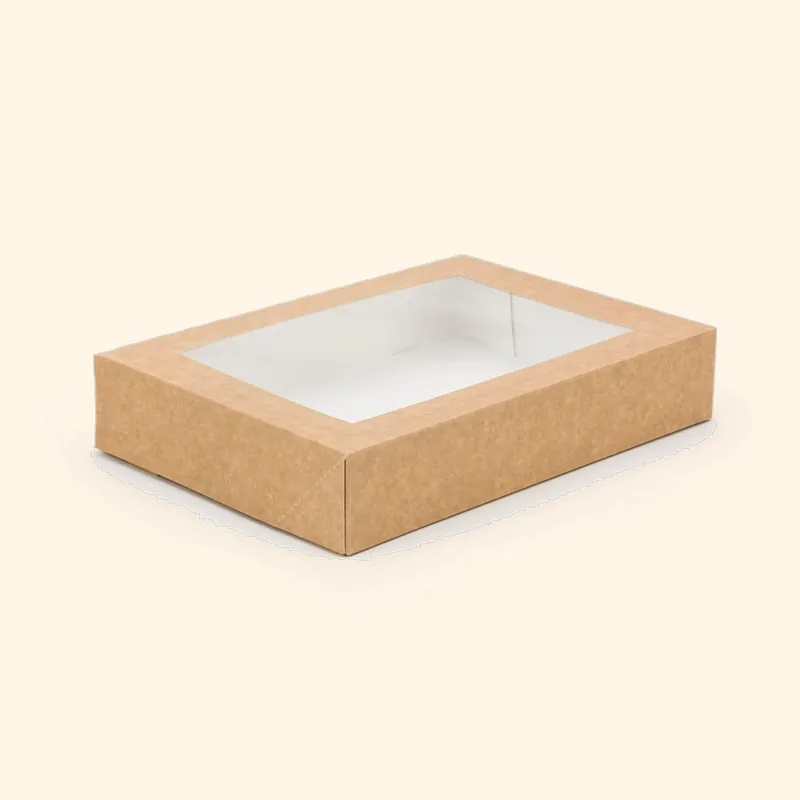
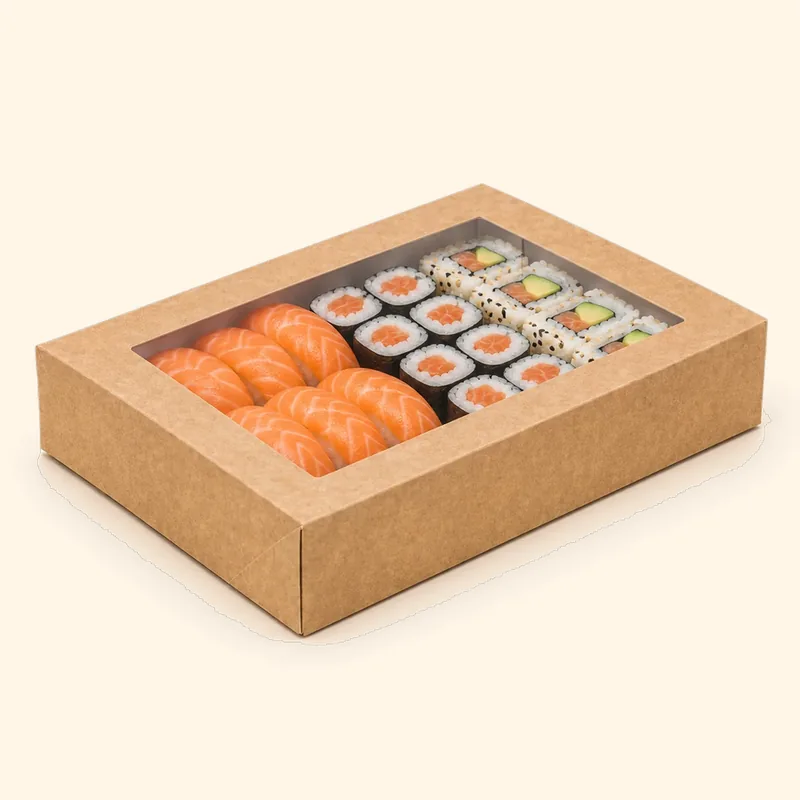
Osiem wizualizacji z 8.09 wpiętych w miejsca z listy braków
Materiał zamyka pięć z sześciu punktów listy: kraftowe pudełka i wkładka
mają teraz zawartość, doszła banderola na kraftowym pudełku, czarne
premium z zestawem oraz dwie sceny do karuzeli inspiracji.

Puste pudełka zostają wyłącznie w pasku kategorii nad katalogiem, gdzie
czytają się jako indeks kształtów. Wszędzie indziej wchodzą warianty
z jedzeniem.

Przy okazji dwie usterki galerii: strona banderol pokazywała to samo
zdjęcie dwa razy, a galeria premium miała wśród zdjęć banderolę, czyli
temat z innej kategorii.

UWAGA: to wizualizacje, nie zdjęcia produkcji. Banderola i czarne premium
są koncepcjami, wymagają porównania z faktycznym asortymentem przed
wdrożeniem. Źródła i zastrzeżenia w 00 - Assets/Packshoot/07 - Wizualizacje
2026-09/ZRODLO.md.

Changed region(s): [[0.0312, 0.2188, 0.9688, 0.8125]]

diff --git a/opakowania-premium.html b/opakowania-premium.html
@@ -77,7 +77,7 @@
           <div class="galeria__male">
             <button class="galeria__mini" type="button" aria-label="Pokaż w powiększeniu: Zamknięte czarne pudełko na zestaw sushi"><figure class="foto" data-obr="OBR-06"><img src="assets/img/packshot-czarne-z-wzorem-zamkniete.webp" srcset="assets/img/packshot-czarne-z-wzorem-zamkniete-800.webp 800w, assets/img/packshot-czarne-z-wzorem-zamkniete.webp 1448w" sizes="(min-width: 1000px) 33vw, 100vw" alt="Zamknięte czarne pudełko na zestaw sushi" loading="lazy" decoding="async"></figure></button>
             <button class="galeria__mini" type="button" aria-label="Pokaż w powiększeniu: Makro złocenia: złote linie na czarnym kartonie"><figure class="foto" data-obr="OBR-18"><img src="assets/img/hot-stamping-detail.webp" srcset="assets/img/hot-stamping-detail-800.webp 800w, assets/img/hot-stamping-detail.webp 1600w" sizes="(min-width: 1000px) 33vw, 100vw" alt="Makro złocenia: złote linie na czarnym kartonie" loading="lazy" decoding="async"></figure></button>
-            <button class="galeria__mini" type="button" aria-label="Pokaż w powiększeniu: Banderole brandingowe na pudełkach MOKU"><figure class="foto" data-obr="OBR-19"><img src="assets/img/banderole-brandingowe-moku.webp" srcset="assets/img/banderole-brandingowe-moku-800.webp 800w, assets/img/banderole-brandingowe-moku.webp 1600w" sizes="(min-width: 1000px) 33vw, 100vw" alt="Banderole brandingowe na pudełkach MOKU" loading="lazy" decoding="async"></figure></button>
+            <button class="galeria__mini" type="button" aria-label="Pokaż w powiększeniu: Banderole brandingowe na pudełkach MOKU"><figure class="foto" data-obr="OBR-19"><img src="assets/img/packshot-czarne-premium-zestaw.webp" srcset="assets/img/packshot-czarne-premium-zestaw-800.webp 800w, assets/img/packshot-czarne-premium-zestaw.webp 1254w" sizes="(min-width: 1000px) 33vw, 100vw" alt="Czarne pudełko premium z zestawem sushi" loading="lazy" decoding="async"></figure></button>
             <button class="galeria__mini" type="button" aria-label="Pokaż w powiększeniu: Detal otwartego pudełka na rolki, pałeczki wyjmują kawałek"><figure class="foto" data-obr="OBR-14"><img src="assets/img/czarne-wzor-chopsticks-closeup-action-4x5.webp" srcset="assets/img/czarne-wzor-chopsticks-closeup-action-4x5-800.webp 800w, assets/img/czarne-wzor-chopsticks-closeup-action-4x5.webp 1122w" sizes="(min-width: 1000px) 33vw, 100vw" alt="Detal otwartego pudełka na rolki, pałeczki wyjmują kawałek" loading="lazy" decoding="async"></figure></button>
           </div>
         </div>
@@ -211,7 +211,7 @@
           <p>Dla lokali, które dużą część sprzedaży realizują w&nbsp;dostawie lub odbiorze osobistym.</p>
         </a>
         <a class="karta" href="opakowania-catering.html">
-          <figure class="foto foto--kwadrat" data-obr="OBR-11"><img src="assets/img/packshot-kraft-czarna-wkladka.webp" srcset="assets/img/packshot-kraft-czarna-wkladka-800.webp 800w, assets/img/packshot-kraft-czarna-wkladka.webp 1448w" sizes="(min-width: 1000px) 33vw, 100vw" alt="Kraftowe pudełko z czarną wkładką, otwarte" loading="lazy" decoding="async"></figure>
+          <figure class="foto foto--kwadrat" data-obr="OBR-11"><img src="assets/img/packshot-kraft-czarna-wkladka-z-jedzeniem.webp" srcset="assets/img/packshot-kraft-czarna-wkladka-z-jedzeniem-800.webp 800w, assets/img/packshot-kraft-czarna-wkladka-z-jedzeniem.webp 1122w" sizes="(min-width: 1000px) 33vw, 100vw" alt="Kraftowe pudełko z czarną wkładką, otwarte" loading="lazy" decoding="async"></figure>
           <h3>Opakowania cateringowe i&nbsp;eventowe</h3>
           <p>Dla firm obsługujących eventy, konferencje, przyjęcia i&nbsp;większe zamówienia biznesowe.</p>
         </a>
@@ -221,7 +221,7 @@
           <p>Dla sprzedaży szybkiej, lodówek ekspozycyjnych, punktów food court i&nbsp;konceptów lunchowych.</p>
         </a>
         <a class="karta" href="opakowania-banderole.html">
-          <figure class="foto foto--kwadrat" data-obr="OBR-31"><img src="assets/img/banderole-brandingowe-moku.webp" srcset="assets/img/banderole-brandingowe-moku-800.webp 800w, assets/img/banderole-brandingowe-moku.webp 1600w" sizes="(min-width: 1000px) 33vw, 100vw" alt="Wizualizacja banderoli brandingowych" loading="lazy" decoding="async"></figure>
+          <figure class="foto foto--kwadrat" data-obr="OBR-31"><img src="assets/img/packshot-czarne-premium-zestaw.webp" srcset="assets/img/packshot-czarne-premium-zestaw-800.webp 800w, assets/img/packshot-czarne-premium-zestaw.webp 1254w" sizes="(min-width: 1000px) 33vw, 100vw" alt="Wizualizacja banderoli brandingowych" loading="lazy" decoding="async"></figure>
           <h3>Banderole brandingowe</h3>
           <p>Prosty i&nbsp;efektowny sposób na wyróżnienie opakowania bez zmiany całej konstrukcji pudełka.</p>
         </a>

diff --git a/opakowania-banderole.html b/opakowania-banderole.html
@@ -75,7 +75,7 @@
             <figure class="foto" data-obr="OBR-31"><img src="assets/img/banderole-brandingowe-moku.webp" srcset="assets/img/banderole-brandingowe-moku-800.webp 800w, assets/img/banderole-brandingowe-moku.webp 1600w" sizes="(min-width: 1000px) 33vw, 100vw" alt="Wizualizacja banderoli brandingowych" loading="lazy" decoding="async"></figure>
           </div>
           <div class="galeria__male">
-            <button class="galeria__mini" type="button" aria-label="Pokaż w powiększeniu: Banderole brandingowe na pudełkach MOKU"><figure class="foto" data-obr="OBR-19"><img src="assets/img/banderole-brandingowe-moku.webp" srcset="assets/img/banderole-brandingowe-moku-800.webp 800w, assets/img/banderole-brandingowe-moku.webp 1600w" sizes="(min-width: 1000px) 33vw, 100vw" alt="Banderole brandingowe na pudełkach MOKU" loading="lazy" decoding="async"></figure></button>
+            <button class="galeria__mini" type="button" aria-label="Pokaż w powiększeniu: Banderole brandingowe na pudełkach MOKU"><figure class="foto" data-obr="OBR-19"><img src="assets/img/packshot-banderola-kraft.webp" srcset="assets/img/packshot-banderola-kraft-800.webp 800w, assets/img/packshot-banderola-kraft.webp 1254w" sizes="(min-width: 1000px) 33vw, 100vw" alt="Banderola na kraftowym pudełku z okienkiem" loading="lazy" decoding="async"></figure></button>
             <button class="galeria__mini" type="button" aria-label="Pokaż w powiększeniu: Makro nadruku na czarnym kartonie, otwarte pudełko z zestawem"><figure class="foto" data-obr="OBR-17"><img src="assets/img/czarne-wzor-chopsticks-closeup-action-4x5.webp" srcset="assets/img/czarne-wzor-chopsticks-closeup-action-4x5-800.webp 800w, assets/img/czarne-wzor-chopsticks-closeup-action-4x5.webp 1600w" sizes="(min-width: 1000px) 33vw, 100vw" alt="Makro nadruku na czarnym kartonie, otwarte pudełko z zestawem" loading="lazy" decoding="async"></figure></button>
             <button class="galeria__mini" type="button" aria-label="Pokaż w powiększeniu: Makro złocenia: złote linie na czarnym kartonie"><figure class="foto" data-obr="OBR-18"><img src="assets/img/hot-stamping-detail.webp" srcset="assets/img/hot-stamping-detail-800.webp 800w, assets/img/hot-stamping-detail.webp 1600w" sizes="(min-width: 1000px) 33vw, 100vw" alt="Makro złocenia: złote linie na czarnym kartonie" loading="lazy" decoding="async"></figure></button>
             <button class="galeria__mini" type="button" aria-label="Pokaż w powiększeniu: Jedno pudełko w kilku wariantach brandingowych"><figure class="foto" data-obr="OBR-16"><img src="assets/img/mozliwosci-personalizacji-moku.webp" srcset="assets/img/mozliwosci-personalizacji-moku-800.webp 800w, assets/img/mozliwosci-personalizacji-moku.webp 1600w" sizes="(min-width: 1000px) 33vw, 100vw" alt="Jedno pudełko w kilku wariantach brandingowych" loading="lazy" decoding="async"></figure></button>
@@ -150,7 +150,7 @@
         <div class="zakladki__panel" id="panel-person" role="tabpanel" aria-labelledby="tab-person" tabindex="0" hidden>
           <p>Logo, grafika, komunikaty, oznaczenia zestawów.</p>
           <p>Druk offsetowy, farbami przeznaczonymi do opakowań do żywności.</p>
-          <figure class="foto foto--szeroki" data-obr="OBR-19"><img src="assets/img/banderole-brandingowe-moku.webp" srcset="assets/img/banderole-brandingowe-moku-800.webp 800w, assets/img/banderole-brandingowe-moku.webp 1600w" sizes="(min-width: 1000px) 33vw, 100vw" alt="Banderole brandingowe na pudełkach MOKU" loading="lazy" decoding="async"></figure>
+          <figure class="foto foto--szeroki" data-obr="OBR-19"><img src="assets/img/packshot-banderola-kraft.webp" srcset="assets/img/packshot-banderola-kraft-800.webp 800w, assets/img/packshot-banderola-kraft.webp 1254w" sizes="(min-width: 1000px) 33vw, 100vw" alt="Banderole brandingowe na pudełkach MOKU" loading="lazy" decoding="async"></figure>
         </div>
         <div class="zakladki__panel" id="panel-praca" role="tabpanel" aria-labelledby="tab-praca" tabindex="0" hidden>
           <ol class="spec" style="list-style:none;padding:0">

diff --git a/opakowania.html b/opakowania.html
@@ -130,12 +130,12 @@
               <p class="produkt__opis">Dla restauracji i&nbsp;marek, które chcą podkreślić wyższy standard produktu.</p>
             </a>
             <a class="produkt" id="delivery" href="opakowania-delivery.html">
-              <figure class="foto foto-para" data-obr="OBR-07" data-para="delivery"><img src="assets/img/packshot-kraft-okno-22x9x5.webp" srcset="assets/img/packshot-kraft-okno-22x9x5-800.webp 800w, assets/img/packshot-kraft-okno-22x9x5.webp 1600w" sizes="(min-width: 1000px) 33vw, 100vw" alt="Kraftowe pudełko z okienkiem, format 22×9×5 cm" loading="lazy" decoding="async"><img src="assets/img/packshot-kraft-z-okienkiem-z-jedzeniem.webp" srcset="assets/img/packshot-kraft-z-okienkiem-z-jedzeniem-800.webp 800w, assets/img/packshot-kraft-z-okienkiem-z-jedzeniem.webp 1000w" sizes="(min-width: 1000px) 33vw, 100vw" alt="Otwarte kraftowe pudełko z zestawem na wynos" loading="lazy" decoding="async"></figure>
+              <figure class="foto foto-para" data-obr="OBR-07" data-para="delivery"><img src="assets/img/packshot-kraft-okno-22x9x5-z-jedzeniem.webp" srcset="assets/img/packshot-kraft-okno-22x9x5-z-jedzeniem-800.webp 800w, assets/img/packshot-kraft-okno-22x9x5-z-jedzeniem.webp 1254w" sizes="(min-width: 1000px) 33vw, 100vw" alt="Kraftowe pudełko z okienkiem, format 22×9×5 cm" loading="lazy" decoding="async"><img src="assets/img/packshot-kraft-z-okienkiem-z-jedzeniem.webp" srcset="assets/img/packshot-kraft-z-okienkiem-z-jedzeniem-800.webp 800w, assets/img/packshot-kraft-z-okienkiem-z-jedzeniem.webp 1000w" sizes="(min-width: 1000px) 33vw, 100vw" alt="Otwarte kraftowe pudełko z zestawem na wynos" loading="lazy" decoding="async"></figure>
               <h2>Opakowania delivery i&nbsp;take away</h2>
               <p class="produkt__opis">Dla lokali, które dużą część sprzedaży realizują w&nbsp;dostawie lub odbiorze osobistym.</p>
             </a>
             <a class="produkt" id="catering" href="opakowania-catering.html">
-              <figure class="foto foto-para" data-obr="OBR-09" data-para="catering"><img src="assets/img/packshot-kraft-okno-26x19x5.webp" srcset="assets/img/packshot-kraft-okno-26x19x5-800.webp 800w, assets/img/packshot-kraft-okno-26x19x5.webp 1600w" sizes="(min-width: 1000px) 33vw, 100vw" alt="Kraftowe pudełko z okienkiem, format 26×19×5 cm" loading="lazy" decoding="async"><img src="assets/img/packshot-kraft-z-okienkiem-z-jedzeniem.webp" srcset="assets/img/packshot-kraft-z-okienkiem-z-jedzeniem-800.webp 800w, assets/img/packshot-kraft-z-okienkiem-z-jedzeniem.webp 1000w" sizes="(min-width: 1000px) 33vw, 100vw" alt="Duże pudełko cateringowe z pełnym zestawem" loading="lazy" decoding="async"></figure>
+              <figure class="foto foto-para" data-obr="OBR-09" data-para="catering"><img src="assets/img/packshot-kraft-okno-26x19x5-z-jedzeniem.webp" srcset="assets/img/packshot-kraft-okno-26x19x5-z-jedzeniem-800.webp 800w, assets/img/packshot-kraft-okno-26x19x5-z-jedzeniem.webp 1254w" sizes="(min-width: 1000px) 33vw, 100vw" alt="Kraftowe pudełko z okienkiem, format 26×19×5 cm" loading="lazy" decoding="async"><img src="assets/img/packshot-kraft-z-okienkiem-z-jedzeniem.webp" srcset="assets/img/packshot-kraft-z-okienkiem-z-jedzeniem-800.webp 800w, assets/img/packshot-kraft-z-okienkiem-z-jedzeniem.webp 1000w" sizes="(min-width: 1000px) 33vw, 100vw" alt="Duże pudełko cateringowe z pełnym zestawem" loading="lazy" decoding="async"></figure>
               <h2>Opakowania cateringowe i&nbsp;eventowe</h2>
               <p class="produkt__opis">Dla firm obsługujących eventy, konferencje, przyjęcia i&nbsp;większe zamówienia biznesowe.</p>
             </a>

diff --git a/opakowania-catering.html b/opakowania-catering.html
@@ -72,10 +72,10 @@
 
         <div class="galeria">
           <div class="galeria__glowna">
-            <figure class="foto" data-obr="OBR-11"><img src="assets/img/packshot-kraft-czarna-wkladka.webp" srcset="assets/img/packshot-kraft-czarna-wkladka-800.webp 800w, assets/img/packshot-kraft-czarna-wkladka.webp 1448w" sizes="(min-width: 1000px) 33vw, 100vw" alt="Kraftowe pudełko z czarną wkładką, otwarte" loading="lazy" decoding="async"></figure>
+            <figure class="foto" data-obr="OBR-11"><img src="assets/img/packshot-kraft-czarna-wkladka-z-jedzeniem.webp" srcset="assets/img/packshot-kraft-czarna-wkladka-z-jedzeniem-800.webp 800w, assets/img/packshot-kraft-czarna-wkladka-z-jedzeniem.webp 1122w" sizes="(min-width: 1000px) 33vw, 100vw" alt="Kraftowe pudełko z czarną wkładką, otwarte" loading="lazy" decoding="async"></figure>
           </div>
           <div class="galeria__male">
-            <button class="galeria__mini" type="button" aria-label="Pokaż w powiększeniu: Kraftowe pudełko z okienkiem, format 19×13×5 cm"><figure class="foto" data-obr="OBR-10"><img src="assets/img/packshot-kraft-okno-19x13x5.webp" srcset="assets/img/packshot-kraft-okno-19x13x5-800.webp 800w, assets/img/packshot-kraft-okno-19x13x5.webp 1600w" sizes="(min-width: 1000px) 33vw, 100vw" alt="Kraftowe pudełko z okienkiem, format 19×13×5 cm" loading="lazy" decoding="async"></figure></button>
+            <button class="galeria__mini" type="button" aria-label="Pokaż w powiększeniu: Kraftowe pudełko z okienkiem, format 19×13×5 cm"><figure class="foto" data-obr="OBR-10"><img src="assets/img/packshot-kraft-okno-19x13x5-z-jedzeniem.webp" srcset="assets/img/packshot-kraft-okno-19x13x5-z-jedzeniem-800.webp 800w, assets/img/packshot-kraft-okno-19x13x5-z-jedzeniem.webp 1254w" sizes="(min-width: 1000px) 33vw, 100vw" alt="Kraftowe pudełko z okienkiem, format 19×13×5 cm" loading="lazy" decoding="async"></figure></button>
             <button class="galeria__mini" type="button" aria-label="Pokaż w powiększeniu: Trzy formaty opakowań obok siebie"><figure class="foto" data-obr="OBR-15"><img src="assets/img/packshot-kartony-plasko-flatlay-MOKU-x3.webp" srcset="assets/img/packshot-kartony-plasko-flatlay-MOKU-x3-800.webp 800w, assets/img/packshot-kartony-plasko-flatlay-MOKU-x3.webp 1254w" sizes="(min-width: 1000px) 33vw, 100vw" alt="Trzy formaty opakowań obok siebie" loading="lazy" decoding="async"></figure></button>
             <button class="galeria__mini" type="button" aria-label="Pokaż w powiększeniu: Otwarte pudełko MOKU z rolkami w środku"><figure class="foto" data-obr="OBR-20"><img src="assets/img/moku-open-sushi-bonsai-branch-cream-21x10.webp" srcset="assets/img/moku-open-sushi-bonsai-branch-cream-21x10-800.webp 800w, assets/img/moku-open-sushi-bonsai-branch-cream-21x10.webp 1600w" sizes="(min-width: 1000px) 33vw, 100vw" alt="Otwarte pudełko MOKU z rolkami w środku" loading="lazy" decoding="async"></figure></button>
             <button class="galeria__mini" type="button" aria-label="Pokaż w powiększeniu: Makro nadruku na czarnym kartonie, otwarte pudełko z zestawem"><figure class="foto" data-obr="OBR-17"><img src="assets/img/czarne-wzor-chopsticks-closeup-action-4x5.webp" srcset="assets/img/czarne-wzor-chopsticks-closeup-action-4x5-800.webp 800w, assets/img/czarne-wzor-chopsticks-closeup-action-4x5.webp 1600w" sizes="(min-width: 1000px) 33vw, 100vw" alt="Makro nadruku na czarnym kartonie, otwarte pudełko z zestawem" loading="lazy" decoding="async"></figure></button>

diff --git a/index.html b/index.html
@@ -404,11 +404,11 @@
           <h3>Sushi premium</h3>
         </div>
         <div class="karta">
-          <figure class="foto foto--pion" data-stale><img src="assets/img/kraft-window-polish-chef-prep-warm-4x5.webp" srcset="assets/img/kraft-window-polish-chef-prep-warm-4x5-800.webp 800w, assets/img/kraft-window-polish-chef-prep-warm-4x5.webp 1023w" sizes="(min-width: 1000px) 30vw, 80vw" alt="Kucharz pakuje zestaw do kraftowego pudełka z okienkiem" loading="lazy" decoding="async"></figure>
+          <figure class="foto foto--pion" data-stale><img src="assets/img/insp-delivery-kraft.webp" srcset="assets/img/insp-delivery-kraft-800.webp 800w, assets/img/insp-delivery-kraft.webp 1122w" sizes="(min-width: 1000px) 30vw, 80vw" alt="Kucharz pakuje zestaw do kraftowego pudełka z okienkiem" loading="lazy" decoding="async"></figure>
           <h3>Delivery</h3>
         </div>
         <div class="karta">
-          <figure class="foto foto--pion" data-stale><img src="assets/img/moku-chef-action-depth-ad-4x5.webp" srcset="assets/img/moku-chef-action-depth-ad-4x5-800.webp 800w, assets/img/moku-chef-action-depth-ad-4x5.webp 1024w" sizes="(min-width: 1000px) 30vw, 80vw" alt="Kucharz kompletuje zestaw w nowoczesnym lokalu" loading="lazy" decoding="async"></figure>
+          <figure class="foto foto--pion" data-stale><img src="assets/img/insp-lokal-kraft.webp" srcset="assets/img/insp-lokal-kraft-800.webp 800w, assets/img/insp-lokal-kraft.webp 1122w" sizes="(min-width: 1000px) 30vw, 80vw" alt="Kucharz kompletuje zestaw w nowoczesnym lokalu" loading="lazy" decoding="async"></figure>
           <h3>Nowoczesny lokal miejski</h3>
         </div>
         <div class="karta">

diff --git a/opakowania-rolki.html b/opakowania-rolki.html
@@ -216,7 +216,7 @@
           <p>Dla lokali, które dużą część sprzedaży realizują w&nbsp;dostawie lub odbiorze osobistym.</p>
         </a>
         <a class="karta" href="opakowania-catering.html">
-          <figure class="foto foto--kwadrat" data-obr="OBR-11"><img src="assets/img/packshot-kraft-czarna-wkladka.webp" srcset="assets/img/packshot-kraft-czarna-wkladka-800.webp 800w, assets/img/packshot-kraft-czarna-wkladka.webp 1448w" sizes="(min-width: 1000px) 33vw, 100vw" alt="Kraftowe pudełko z czarną wkładką, otwarte" loading="lazy" decoding="async"></figure>
+          <figure class="foto foto--kwadrat" data-obr="OBR-11"><img src="assets/img/packshot-kraft-czarna-wkladka-z-jedzeniem.webp" srcset="assets/img/packshot-kraft-czarna-wkladka-z-jedzeniem-800.webp 800w, assets/img/packshot-kraft-czarna-wkladka-z-jedzeniem.webp 1122w" sizes="(min-width: 1000px) 33vw, 100vw" alt="Kraftowe pudełko z czarną wkładką, otwarte" loading="lazy" decoding="async"></figure>
           <h3>Opakowania cateringowe i&nbsp;eventowe</h3>
           <p>Dla firm obsługujących eventy, konferencje, przyjęcia i&nbsp;większe zamówienia biznesowe.</p>
         </a>

diff --git a/opakowania-zestawy.html b/opakowania-zestawy.html
@@ -216,7 +216,7 @@
           <p>Dla restauracji i&nbsp;marek, które chcą podkreślić wyższy standard produktu.</p>
         </a>
         <a class="karta" href="opakowania-catering.html">
-          <figure class="foto foto--kwadrat" data-obr="OBR-10"><img src="assets/img/packshot-kraft-okno-19x13x5.webp" srcset="assets/img/packshot-kraft-okno-19x13x5-800.webp 800w, assets/img/packshot-kraft-okno-19x13x5.webp 1600w" sizes="(min-width: 1000px) 33vw, 100vw" alt="Kraftowe pudełko z okienkiem, format 19×13×5 cm" loading="lazy" decoding="async"></figure>
+          <figure class="foto foto--kwadrat" data-obr="OBR-10"><img src="assets/img/packshot-kraft-okno-19x13x5-z-jedzeniem.webp" srcset="assets/img/packshot-kraft-okno-19x13x5-z-jedzeniem-800.webp 800w, assets/img/packshot-kraft-okno-19x13x5-z-jedzeniem.webp 1254w" sizes="(min-width: 1000px) 33vw, 100vw" alt="Kraftowe pudełko z okienkiem, format 19×13×5 cm" loading="lazy" decoding="async"></figure>
           <h3>Opakowania cateringowe i&nbsp;eventowe</h3>
           <p>Dla firm obsługujących eventy, konferencje, przyjęcia i&nbsp;większe zamówienia biznesowe.</p>
         </a>

diff --git a/opakowania-delivery.html b/opakowania-delivery.html
@@ -206,7 +206,7 @@
 
       <div class="karty">
         <a class="karta" href="opakowania-catering.html">
-          <figure class="foto foto--kwadrat" data-obr="OBR-11"><img src="assets/img/packshot-kraft-czarna-wkladka.webp" srcset="assets/img/packshot-kraft-czarna-wkladka-800.webp 800w, assets/img/packshot-kraft-czarna-wkladka.webp 1448w" sizes="(min-width: 1000px) 33vw, 100vw" alt="Kraftowe pudełko z czarną wkładką, otwarte" loading="lazy" decoding="async"></figure>
+          <figure class="foto foto--kwadrat" data-obr="OBR-11"><img src="assets/img/packshot-kraft-czarna-wkladka-z-jedzeniem.webp" srcset="assets/img/packshot-kraft-czarna-wkladka-z-jedzeniem-800.webp 800w, assets/img/packshot-kraft-czarna-wkladka-z-jedzeniem.webp 1122w" sizes="(min-width: 1000px) 33vw, 100vw" alt="Kraftowe pudełko z czarną wkładką, otwarte" loading="lazy" decoding="async"></figure>
           <h3>Opakowania cateringowe i&nbsp;eventowe</h3>
           <p>Dla firm obsługujących eventy, konferencje, przyjęcia i&nbsp;większe zamówienia biznesowe.</p>
         </a>
